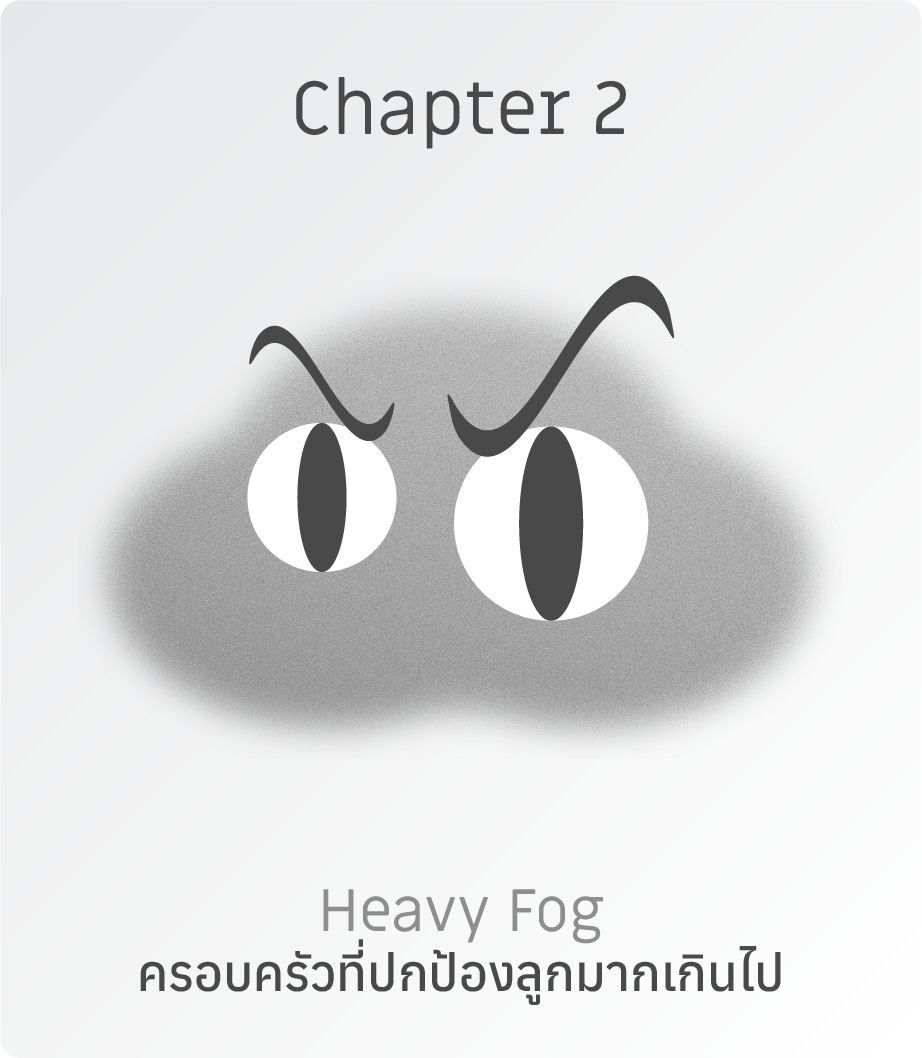
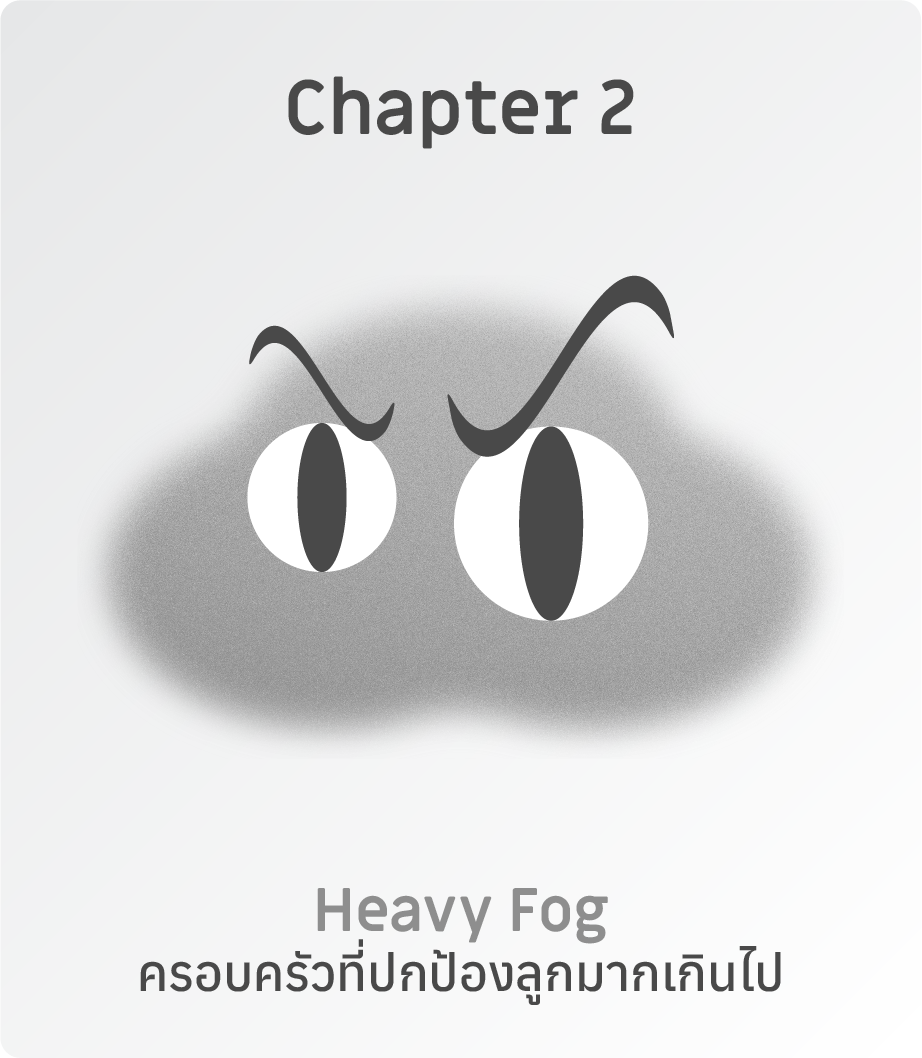
update silde 28,50

Changed region(s): [[0.3037, 0.0624, 0.6985, 0.156], [0.3341, 0.8422, 0.6681, 0.9045]]

diff --git a/index.html b/index.html
@@ -1261,7 +1261,7 @@
     <!-- chapter1 page9 end-->
 
     <!-- chap1 resultno start -->
-    <div class="overlay overlayto_chap1-resultno overlay-slidedown_overlayto_chap1-resultno  ">
+    <div class="overlay overlayto_chap1-resultno overlay-slidedown_overlayto_chap1-resultno">
         <div  class="chap1-page3">
             <div  class="fade-step-nest txtchap1-page3 fade-1500" >
                 การผจญภัยของพวกเราเพิ่งเริ่มต้นเท่านั้น<br>
@@ -1325,12 +1325,12 @@
                 </div> -->
                 <div onclick="openOverlay('.overlayto_ch2page03')" class="btn-condition"  value="true">
                     <!-- ใช่  -->
-                    <span style="font-weight: bold;">เดินเข้าไปก่อน เดี่ยวสักพักหมอกก็หาย </span><br>
+                    <span style="font-weight: bold;">เดินเข้าไป พ่อกับแม่จะอยู่เป็นเพื่อนเอง </span><br>
                     (ใช่ ฉันค่อนข้างที่จะปกป้องลูกเสมอ)
                 </div>
                 <div onclick="openOverlay('.overlayto_chap2-resultno')" class="btn-condition" value="false">
-                    <span style="font-weight: bold;"> เดินแยกไปอีกทางที่หมอกบาง ๆ ดีกว่า</span><br>
-                    (ไม่ใช่ ฉันมักจะปล่อยให้ลูกได้เรียนรู้เอง)
+                    <span style="font-weight: bold;">เดินอีกทาง หมอกหนานี้บังเส้นทางของลูก</span><br>
+                    (ไม่ใช่ ฉันมักจะปล่อยให้ลูกได้เรียนรู้)
                 </div>
             </div>
         </div>
@@ -1356,9 +1356,9 @@
        <div class="coverdivcalepage_all">
             <div class="coverchap2page12">
                <div class="subchap2page12_mind1  fade-step-page fade-1500">
-                    แปลกจัง? <br>
-                    <span style="font-size: var(--text20); font-weight: bold; color: var(--textlightgray);">“ทำไมทางนี้ไม่มีหมอกทึบเหมือนอีกทาง”</span>  <br>
-                    มีแค่ลมเย็น ๆ พัดผ่านเท่านั้นเอง
+                    ลองเดินแยกมาทางนี้ <br>
+                    <span style="font-size: var(--text20); font-weight: bold; color: var(--textlightgray);">บางสิ่งอาจจะกำลังรอพวกเราอยู่ !</span>  <br>
+                    
                </div>
             </div>
        </div>

diff --git a/littlemind_css.css b/littlemind_css.css
@@ -6718,6 +6718,34 @@ height: 45px;
     .chap5-page8-fish3 {
         left: -30px;
     }
+    .chap1-page3 {
+        height: calc(100vh - 60px);
+    }
+    .chap2page1_top {
+        height: 60%;
+    }
+    .chap2page1_bottom {
+        height: 20%;
+    }
+    .coverdivcalepage_all {
+        height: calc(100vh - 60px);
+    }
+    .coverbtutuchtogo {
+        height: 60px;
+        color: red;
+  
+    }
+    .tuchtogonomg {
+        color: red;
+    }
+    .subchp2p4_top1{
+        background-position: top;
+    }
+    .subchp2p4_top2 {
+        height: 45%;
+    }
+
+
 
 }
 
